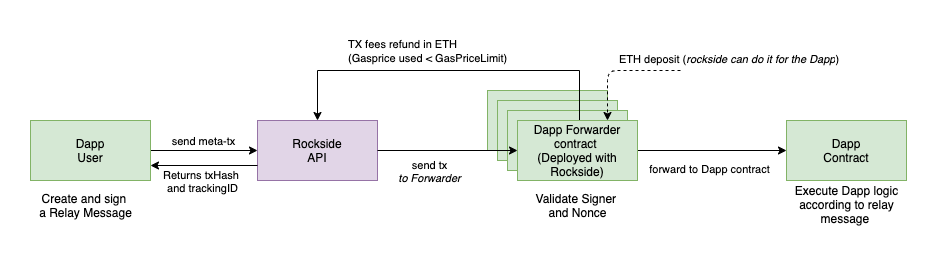
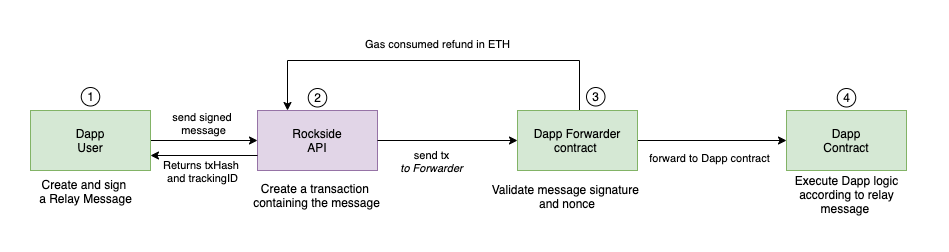
update transaction relay overview part.

diff --git a/RELAYER.md b/RELAYER.md
@@ -11,10 +11,9 @@ We designed a solution with a new approach to get rid of this situation.
 
 ![relay overview](https://raw.githubusercontent.com/rocksideio/technicaldoc/master/images/tx-relay-overview.png "Relay overview")
 
-1. User of the Dapp create and sign a relay message with his EOA.
-2. The relay message is sent to Rockside API with Speed and GasPrice Limit parameters.
-3. Rockside API validate that the transaction is possible (speed and gasprice limit, fund available on your forwarder smart contract...) then send it to the Forwarder.
-4. The forwarder contract validate the signature and the nonce provided. Then it forward the transaction to the Dapp contract and payback rockside for the gas consumed. The gas price used to calculate the fees will never be higher to the specified Gas Price Limit.
+1. User of the Dapp create and sign a relay message with his EOA. The message is sent to Rockside API with Speed and GasPrice Limit parameters.
+2. Rockside API validate that the transaction is possible (speed and gasprice limit, fund available on your forwarder smart contract...). The signed message warapped in a new transaction and sent to the Forwarder.
+4. The forwarder contract validate the signature of the message and the nonce. Then it forward the transaction to the Dapp contract and payback rockside for the gas consumed. The gas price used to calculate the fees will never be higher to the specified Gas Price Limit.
 5. The Dapp contract receive the relay message and execute its logic.
 
 
